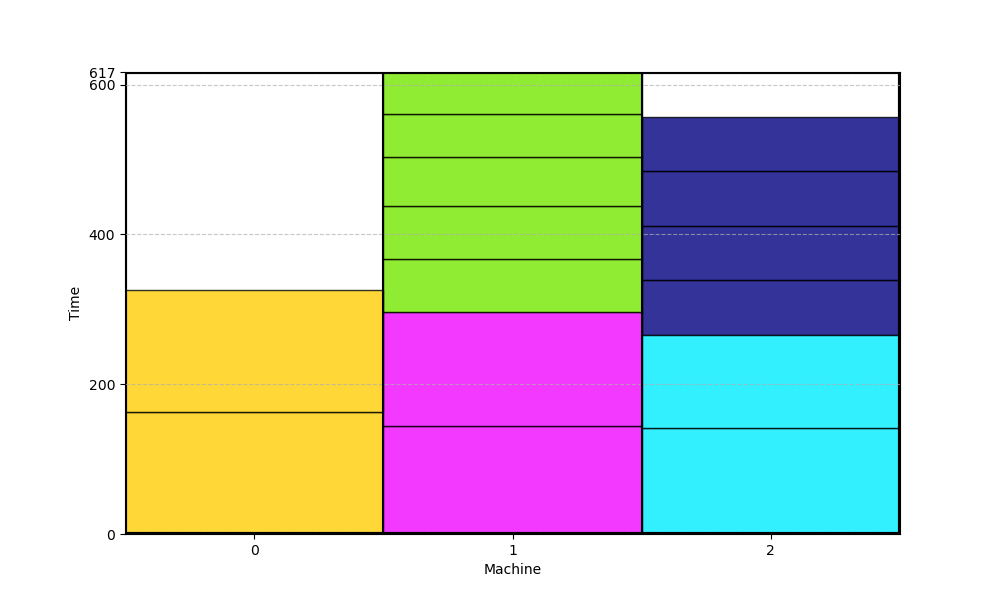
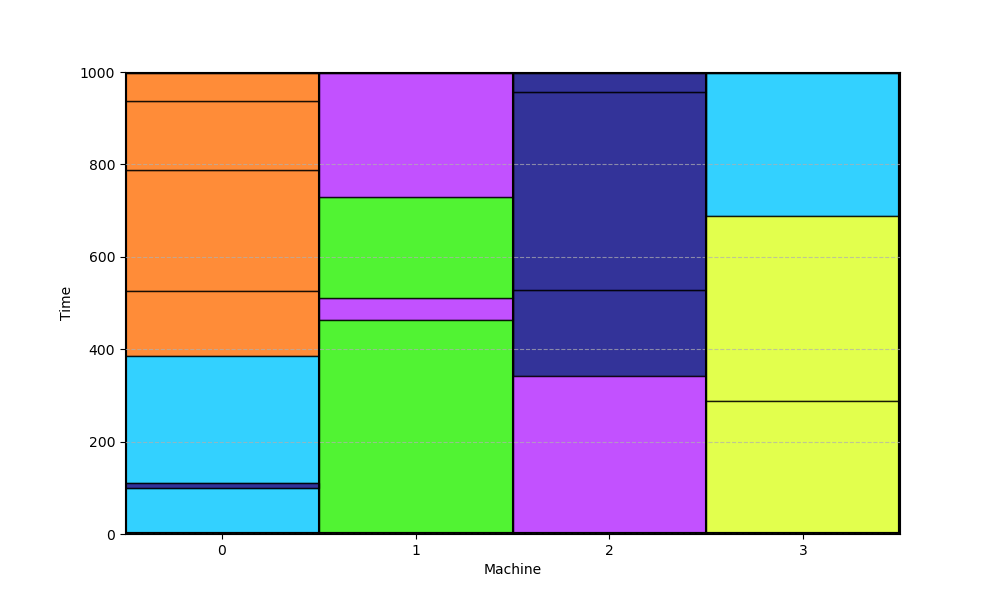
Skapat en ny testgenerator och en ny algoritm med lower bound

diff --git a/utils/new_test_generator.py b/utils/new_test_generator.py
@@ -1,0 +1,110 @@
+# -*- coding: utf-8 -*-
+"""
+Created on Thu Mar 26 10:44:14 2026
+
+@author: idagu
+"""
+import random
+import numpy as np
+
+#Generates a random Poisson-distributed integer with average mu in the range [lb, ub]
+def truncated_poisson(mu, lb, ub):
+    while True:
+       value = np.random.poisson(mu)
+       
+       if lb <= value <= ub:
+           return value
+
+#Distributes target_sum into num_parts subsums by creating break points
+#Makes sure that each subsum is not too large by using upper bound ub
+def create_breaks_with_bounds(target_sum, num_parts, ub): 
+    result = [1]*num_parts
+    remaining = target_sum - sum(result)
+    indices = list(range(num_parts))
+    average_val = target_sum/num_parts
+    
+    while remaining > 0: 
+        random.shuffle(indices)
+        
+        for i in indices: 
+            upper_bound = ub[i]
+            
+            if remaining <= 0: break
+        
+            current_val = result[i]
+            left_until_average = average_val - current_val
+            
+            #We only add if it is allowed and we are not above average
+            if current_val < upper_bound and left_until_average > 0: 
+                can_add = min(remaining,upper_bound-current_val)
+                
+                if can_add < left_until_average: 
+                    add = can_add
+                    
+                else: 
+                    add = truncated_poisson(left_until_average, 1, can_add)
+                result[i] += add
+                remaining -= add
+    
+    tot = result[0]           
+    for i in range(1, len(result)):
+        tot += result[i]
+        result[i] = tot
+    
+    return result
+
+m = 4 #Number of machines
+c = 6 #Number of classes
+n = 18 #Number of jobs
+T = 1000 #Optimal makespan
+
+total_time = m*T
+
+#Create the processing times for the jobs by creating break points
+#Make sure the jobs finishes exactly at T
+
+machine_breaks = [i * T for i in range(1, m)]
+
+class_breaks = create_breaks_with_bounds(total_time, c, [T]*c)
+
+all_breaks = sorted(list(set(machine_breaks + class_breaks)))
+
+#Fewer jobs than break points (can happen only if n < m + c)
+if n < len(all_breaks): 
+    
+    #Replace class break points with machine break points
+    for i in range(len(all_breaks)-n):
+        class_breaks[i] = 1000*(i+1)
+        
+    all_breaks = sorted(list(set(machine_breaks + class_breaks)))
+        
+else: 
+    #Create the remaining break points
+    internal_breaks = random.sample(range(1, total_time), n - m - c)
+    
+    all_breaks = sorted(list(set(all_breaks + internal_breaks)))
+    
+    #If duplicates
+    while len(all_breaks) < n: 
+        new_break = random.randint(1, total_time - 1)
+        if new_break not in all_breaks:
+            all_breaks.append(new_break)
+            all_breaks.sort()
+
+jobs = []
+
+last_time = 0
+last_class = 1
+for b in all_breaks: 
+    job_time = b - last_time
+    jobs.append((job_time, last_class))
+    last_time = b
+    
+    if b in class_breaks: 
+        last_class += 1
+
+np.random.shuffle(jobs)
+
+print(m)
+for job_time, job_class in jobs:
+    print(job_time, job_class)     

diff --git a/algos/ILP_with_lower_bound.py b/algos/ILP_with_lower_bound.py
@@ -1,11 +1,10 @@
-#!/usr/bin/env python3
 # -*- coding: utf-8 -*-
 """
-Created on Thu Feb 12 10:45:52 2026
+Created on Thu Mar 26 11:10:58 2026
 
-@author: almasjolin
+@author: idagu
 """
-# main.py
+
 import gurobipy as gp
 from gurobipy import GRB
 
@@ -19,6 +18,22 @@ def solve_ilp(n,p,m,classes):
     
     M = sum(p.values())
     epsilon = 0.1
+    
+    #Find class with largest processing time
+    max_class_time = 0
+    for c in classes: 
+        class_time = 0
+        for j in classes[c]: 
+            class_time += p[j]
+        if class_time > max_class_time: 
+            max_class_time = class_time
+    
+    #Jobs sorted by processing times
+    sorted_p = dict(sorted(p.items(), key=lambda item: item[1]))
+    
+    #Lower bound of the makespan
+    L = max(max_class_time, sorted_p[m-1]+sorted_p[m])
+    print("Lower bound on makespan: ", L)
 
     #VARIABLES
 
@@ -35,7 +50,7 @@ def solve_ilp(n,p,m,classes):
     y = {}  # yj,j'
     z = {}  # zj,j'
 
-    for j in range(n):#defines the binary variables x,y,z for each pair of jobs
+    for j in range(n):#define binary variables x,y,z for each pair of jobs
         for j_prime in range(n):
             x[j, j_prime] = model.addVar(vtype=GRB.BINARY, name=f"x_{j}_{j_prime}")
             y[j, j_prime] = model.addVar(vtype=GRB.BINARY, name=f"y_{j}_{j_prime}")
@@ -51,6 +66,8 @@ def solve_ilp(n,p,m,classes):
     #Makespan contraints
     # T <= M
     model.addConstr(T <= M, name="T_upper_bound")
+    # T >= L
+    model.addConstr(T >= L, name="T_lower_bound")
 
     # T must be at least as large as the end time of each job
     for j in range(n):
@@ -115,7 +132,7 @@ def solve_ilp(n,p,m,classes):
 
 
     #Machine constraints
-    #At most m jobs can run in parallel
+    #At most m job can run in parallel
     for j in range(n):
         model.addConstr(
             gp.quicksum(z[j, j_prime] for j_prime in range(n)) <= m,
@@ -124,7 +141,7 @@ def solve_ilp(n,p,m,classes):
     #Resource constraints
     # Jobs in the same class cannot overlap
     for class_name, class_jobs in classes.items():
-        for j in class_jobs:
+        for j in class_jobs:#
             for j_prime in class_jobs:
                 if j != j_prime:  # Different jobs in the same class
                     model.addConstr(z[j, j_prime] == 0,
@@ -147,13 +164,3 @@ def solve_ilp(n,p,m,classes):
         print("No feasible solution found")
         return None, None
     
-
-
-
-
-
-
-
-
-
-

diff --git a/algos/machine_assignment.py b/algos/machine_assignment.py
@@ -1,0 +1,28 @@
+# -*- coding: utf-8 -*-
+"""
+Created on Fri Feb 13 14:58:31 2026
+
+@author: idagu
+"""
+#t is a dictionary: t[i] --> start time of i:th job, i = 0, ..., n-1
+#m is the number of machines
+#p is a dictionary: p[i] --> duration of i:th job, i = 0, ..., n-1
+
+def machine_assignment(t, m, p):
+    #Machine assignment schedule
+    sigma = {}
+    
+    #Total load on each machine
+    C = {i: 0 for i in range(m)}
+    
+    #Sort the jobs based on start times
+    t_sorted = dict(sorted(t.items(), key=lambda item: item[1]))
+    
+    for j in t_sorted.keys():
+        i = min(C, key=C.get) #The machines with least total load
+        C[i] += p[j] #Add the job to the machine
+        sigma[j] = i
+    
+    return (sigma)
+        
+        

diff --git a/utils/testgenerator.py b/utils/testgenerator.py
@@ -48,11 +48,10 @@ def distribute_sum_with_bounds(target_sum, num_parts, ub):
     
     return result
 
-m = 3 #Number of machines
-c = 5 #Number of classes
-n = 10 #Number of jobs
+m = 9 #Number of machines
+c = 10 #Number of classes
+n = 30 #Number of jobs
 T = 1000 #Optimal makespan
-
 
 jobs= [] #jobs[i] --> (processing time,class) for job i, i = 0, ..., n-1
   
@@ -77,4 +76,4 @@ np.random.shuffle(jobs)
 
 print(m)
 for job_time, job_class in jobs:
-    print(job_time, job_class)    
+    print(job_time, job_class)  

diff --git a/algos/exact_with_gurobi_lb.py b/algos/exact_with_gurobi_lb.py
@@ -1,13 +1,13 @@
 # -*- coding: utf-8 -*-
 """
-Created on Mon Feb 23 15:09:01 2026
+Created on Thu Mar 26 11:38:40 2026
 
 @author: idagu
 """
 
 import sys
 import time
-from ILP import solve_ilp
+from ILP_with_lower_bound import solve_ilp
 from machine_assignment import machine_assignment
 
 ## Read input ##

diff --git a/utils/visualize_by_time_machine.py b/utils/visualize_by_time_machine.py
@@ -101,6 +101,6 @@ plt.grid(axis="y", linestyle="--", alpha=0.7)
 #Marking the optimal makespan T
 ax.axhline(y=T, color='black', linestyle='-', linewidth=2.5, label=f"Optimal T = {T}")
 
-plt.savefig("imgs/senast_genererade_bilden.png")
+plt.savefig("imgs/latest_generated_image.png")
 plt.show()
 

diff --git a/algos/5_over_3.py b/algos/5_over_3.py
@@ -1,7 +1,7 @@
 import sys
 import time as tid
 
-sys.stdin = open(r"c:\Users\rebec\Kandidatarbete\tests\test_1.txt", "r")
+#sys.stdin = open(r"c:\Users\rebec\Kandidatarbete\tests\test_1.txt", "r")
 
 ## Read input ##
 job_class = [] # [i] --> class of i:th job
